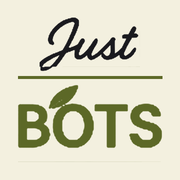
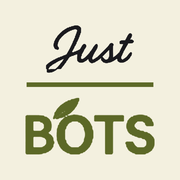
Add files via upload

Changed region(s): [[0.0833, 0.0833, 0.9167, 0.8611]]

diff --git a/SETUP.md b/SETUP.md
@@ -13,10 +13,16 @@ Two files matter:
 ## 1. Put the app on GitHub Pages
 
 1. On github.com, create a new repository. Call it `justbots-docs`.
-2. Upload these six files to it, all in the root, not in a folder:
-   `index.html`, `manifest.webmanifest`, `icon-192.png`, `icon-512.png`,
-   `apple-touch-icon.png`. `Code.gs` and `SETUP.md` can go up too but are
-   not used by the site.
+2. Upload these seven files to it, all in the root, not in a folder:
+   `index.html`, `manifest.webmanifest`, `apple-touch-icon.png`,
+   `icon-192.png`, `icon-512.png`, `icon-maskable-192.png`,
+   `icon-maskable-512.png`. `Code.gs` and `SETUP.md` can go up too but
+   are not used by the site.
+
+   There are two sets of icons on purpose. Android crops app icons to a
+   circle or a squircle depending on the phone, so the maskable pair is
+   drawn smaller to survive that crop. iPhone and browser tabs use the
+   other pair, which sits larger in the square.
 3. In the repo, open **Settings > Pages**.
 4. Under **Build and deployment**, set Source to **Deploy from a branch**,
    branch **main**, folder **/ (root)**. Save.
